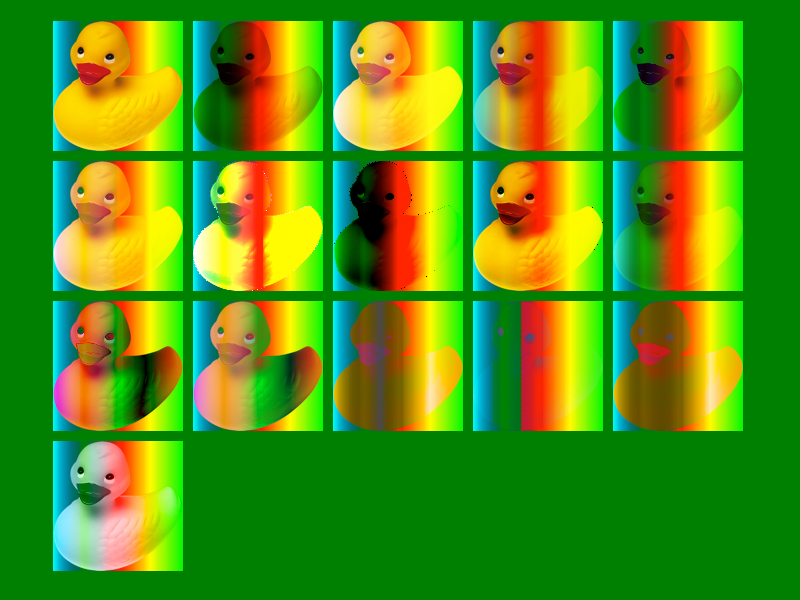
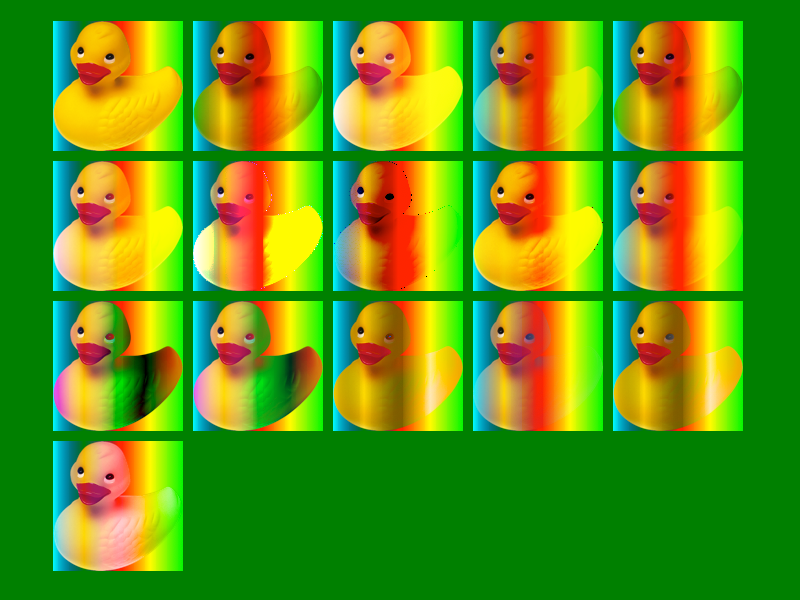
Source/WebCore: Update the background blending implementation to match the changes done in the spec. This implies that background color blending is removed and the background layers won't blend with the content behind the element any more. https://bugs.webkit.org/show_bug.cgi?id=116212
Patch by Mihai Tica <mitica@adobe.com> on 2013-05-21
Reviewed by Dean Jackson.

* rendering/RenderBox.cpp:
(WebCore::RenderBox::paintFillLayers):
* rendering/RenderBoxModelObject.cpp:
(WebCore::RenderBoxModelObject::paintFillLayerExtended):

LayoutTests: Updating element background blending to conform to the changes in the spec.
This implies that the background layers won't longer blend with the content
behind the element.
Removing the background color tests, as background color blending is no longer
a valid use case, also modified the current background image tests.
https://bugs.webkit.org/show_bug.cgi?id=116212

Patch by Mihai Tica <mitica@adobe.com> on 2013-05-21
Reviewed by Dean Jackson.

* css3/compositing/effect-background-blend-mode-color-expected.txt: Removed.
* css3/compositing/effect-background-blend-mode-color.html: Removed.
* css3/compositing/effect-background-blend-mode-color2-expected.txt: Removed.
* css3/compositing/effect-background-blend-mode-color2.html: Removed.
* css3/compositing/effect-background-blend-mode-stacking-expected.png: Removed.
* css3/compositing/effect-background-blend-mode-stacking.html:
* platform/mac/css3/compositing/effect-background-blend-mode-color-expected.png: Removed.
* platform/mac/css3/compositing/effect-background-blend-mode-color2-expected.png: Removed.
* platform/mac/css3/compositing/effect-background-blend-mode-expected.png:
* platform/mac/css3/compositing/effect-background-blend-mode-stacking-expected.png:
[…]

diff --git a/LayoutTests/css3/compositing/effect-background-blend-mode-stacking.html b/LayoutTests/css3/compositing/effect-background-blend-mode-stacking.html
@@ -1,10 +1,11 @@
 <!DOCTYPE HTML>
 <script>
+
     if (window.testRunner) {
         window.testRunner.overridePreference("WebKitAcceleratedCompositingEnabled", "1");
+        window.testRunner.dumpAsText(true);
     }
-    if (window.testRunner)
-      window.testRunner.dumpAsText(true);
+
 </script>
 <style>
 
@@ -19,15 +20,14 @@ li
 	float: left;
 }
 </style>
-<!-- this file should contain a duck on top of a gradient with every type of blending -->
 <body style="background-color: red">
-<ul>
-<li style=""></li>
-<li style="opacity: .9"></li>
-<li style="-webkit-transform: scale(1.01, 1.01)"></li>
-<li style="-webkit-transform: translate3d(.01px,.01px, 01px)"></li>
-<li style="-webkit-box-reflect:below 5px linear-gradient(to bottom, transparent 0%, transparent 50%, white 100%);"></li>
-<li style="position: fixed; top: 160px;"></li>
-</ul>
+    <ul>
+        <li></li>
+        <li style="opacity: .9"></li>
+        <li style="-webkit-transform: scale(1.01, 1.01)"></li>
+        <li style="-webkit-transform: translate3d(.01px,.01px, 01px)"></li>
+        <li style="-webkit-box-reflect: below 5px linear-gradient(to bottom, transparent 0%, transparent 50%, white 100%);"></li>
+        <li style="position: fixed; top: 160px;"></li>
+    </ul>
 </body>
 

diff --git a/Source/WebCore/rendering/RenderBoxModelObject.cpp b/Source/WebCore/rendering/RenderBoxModelObject.cpp
@@ -812,15 +812,15 @@ void RenderBoxModelObject::paintFillLayerExtended(const PaintInfo& paintInfo, co
         if (hasRoundedBorder && bleedAvoidance != BackgroundBleedUseTransparencyLayer) {
             RoundedRect border = backgroundRoundedRectAdjustedForBleedAvoidance(context, rect, bleedAvoidance, box, boxSize, includeLeftEdge, includeRightEdge);
             if (border.isRenderable())
-                context->fillRoundedRect(border, bgColor, style()->colorSpace(), bgLayer->blendMode());
+                context->fillRoundedRect(border, bgColor, style()->colorSpace());
             else {
                 context->save();
                 clipRoundedInnerRect(context, rect, border);
-                context->fillRect(border.rect(), bgColor, style()->colorSpace(), context->compositeOperation(), bgLayer->blendMode());
+                context->fillRect(border.rect(), bgColor, style()->colorSpace());
                 context->restore();
             }
         } else
-            context->fillRect(pixelSnappedIntRect(rect), bgColor, style()->colorSpace(), context->compositeOperation(), bgLayer->blendMode());
+            context->fillRect(pixelSnappedIntRect(rect), bgColor, style()->colorSpace());
 
         return;
     }
@@ -965,10 +965,10 @@ void RenderBoxModelObject::paintFillLayerExtended(const PaintInfo& paintInfo, co
                 if (bgColor.alpha())
                     baseColor = baseColor.blend(bgColor);
 
-                context->fillRect(backgroundRect, baseColor, style()->colorSpace(), CompositeCopy, bgLayer->blendMode());
+                context->fillRect(backgroundRect, baseColor, style()->colorSpace(), CompositeCopy);
             } else if (bgColor.alpha()) {
                 CompositeOperator operation = shouldClearBackground ? CompositeCopy : context->compositeOperation();
-                context->fillRect(backgroundRect, bgColor, style()->colorSpace(), operation, bgLayer->blendMode());
+                context->fillRect(backgroundRect, bgColor, style()->colorSpace(), operation);
             } else if (shouldClearBackground)
                 context->clearRect(backgroundRect);
         }

diff --git a/Source/WebCore/rendering/RenderBox.cpp b/Source/WebCore/rendering/RenderBox.cpp
@@ -1364,6 +1364,7 @@ void RenderBox::paintFillLayers(const PaintInfo& paintInfo, const Color& c, cons
 {
     Vector<const FillLayer*, 8> layers;
     const FillLayer* curLayer = fillLayer;
+    bool shouldDrawBackgroundInSeparateBuffer = false;
     while (curLayer) {
         layers.append(curLayer);
         // Stop traversal when an opaque layer is encountered.
@@ -1373,16 +1374,28 @@ void RenderBox::paintFillLayers(const PaintInfo& paintInfo, const Color& c, cons
         // RenderBoxModelObject::paintFillLayerExtended. A more efficient solution might be to move
         // the layer recursion into paintFillLayerExtended, or to compute the layer geometry here
         // and pass it down.
-        
+
+        if (!shouldDrawBackgroundInSeparateBuffer && curLayer->blendMode() != BlendModeNormal)
+            shouldDrawBackgroundInSeparateBuffer = true;
+
         // The clipOccludesNextLayers condition must be evaluated first to avoid short-circuiting.
         if (curLayer->clipOccludesNextLayers(curLayer == fillLayer) && curLayer->hasOpaqueImage(this) && curLayer->image()->canRender(this, style()->effectiveZoom()) && curLayer->hasRepeatXY())
             break;
         curLayer = curLayer->next();
     }
 
+    GraphicsContext* context = paintInfo.context;
+    if (!context)
+        shouldDrawBackgroundInSeparateBuffer = false;
+    if (shouldDrawBackgroundInSeparateBuffer)
+        context->beginTransparencyLayer(1);
+
     Vector<const FillLayer*>::const_reverse_iterator topLayer = layers.rend();
     for (Vector<const FillLayer*>::const_reverse_iterator it = layers.rbegin(); it != topLayer; ++it)
         paintFillLayer(paintInfo, c, *it, rect, bleedAvoidance, op, backgroundObject);
+
+    if (shouldDrawBackgroundInSeparateBuffer)
+        context->endTransparencyLayer();
 }
 
 void RenderBox::paintFillLayer(const PaintInfo& paintInfo, const Color& c, const FillLayer* fillLayer, const LayoutRect& rect,
